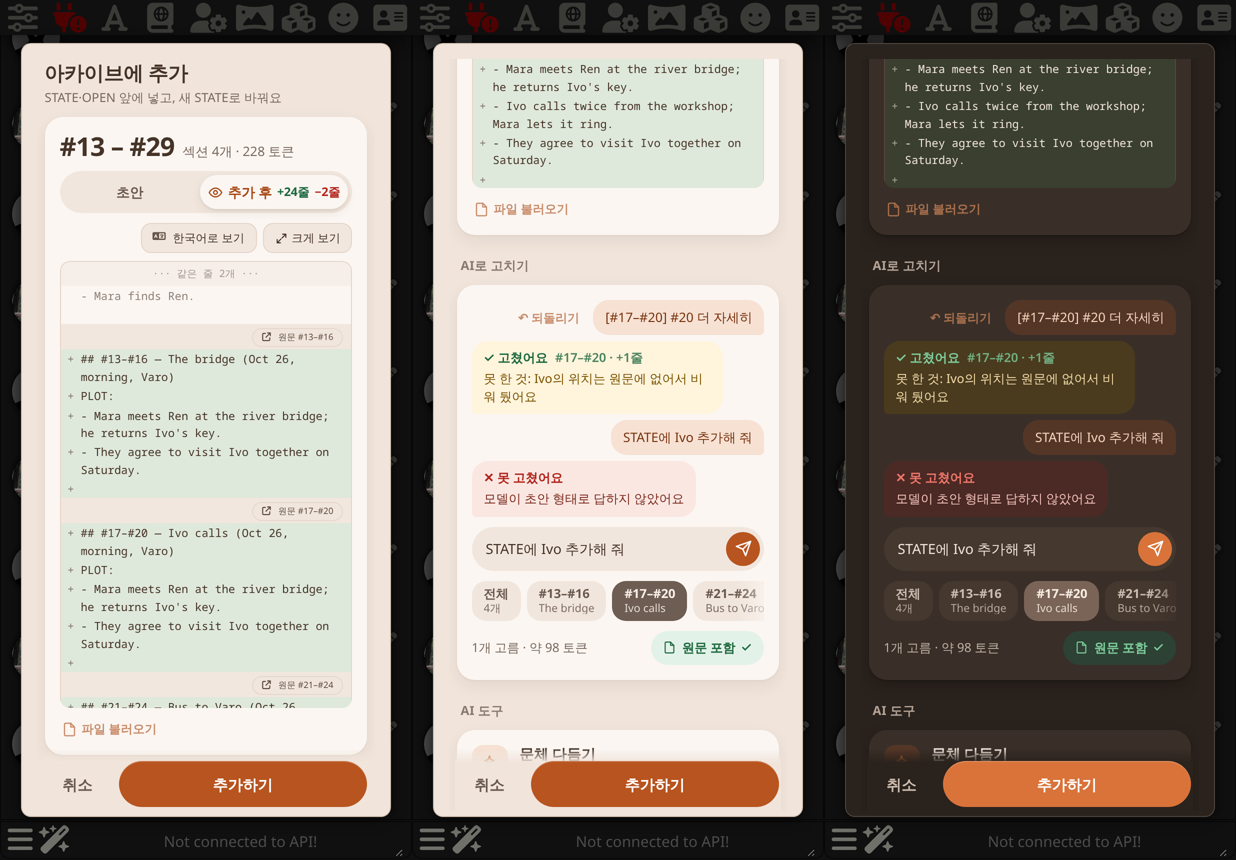
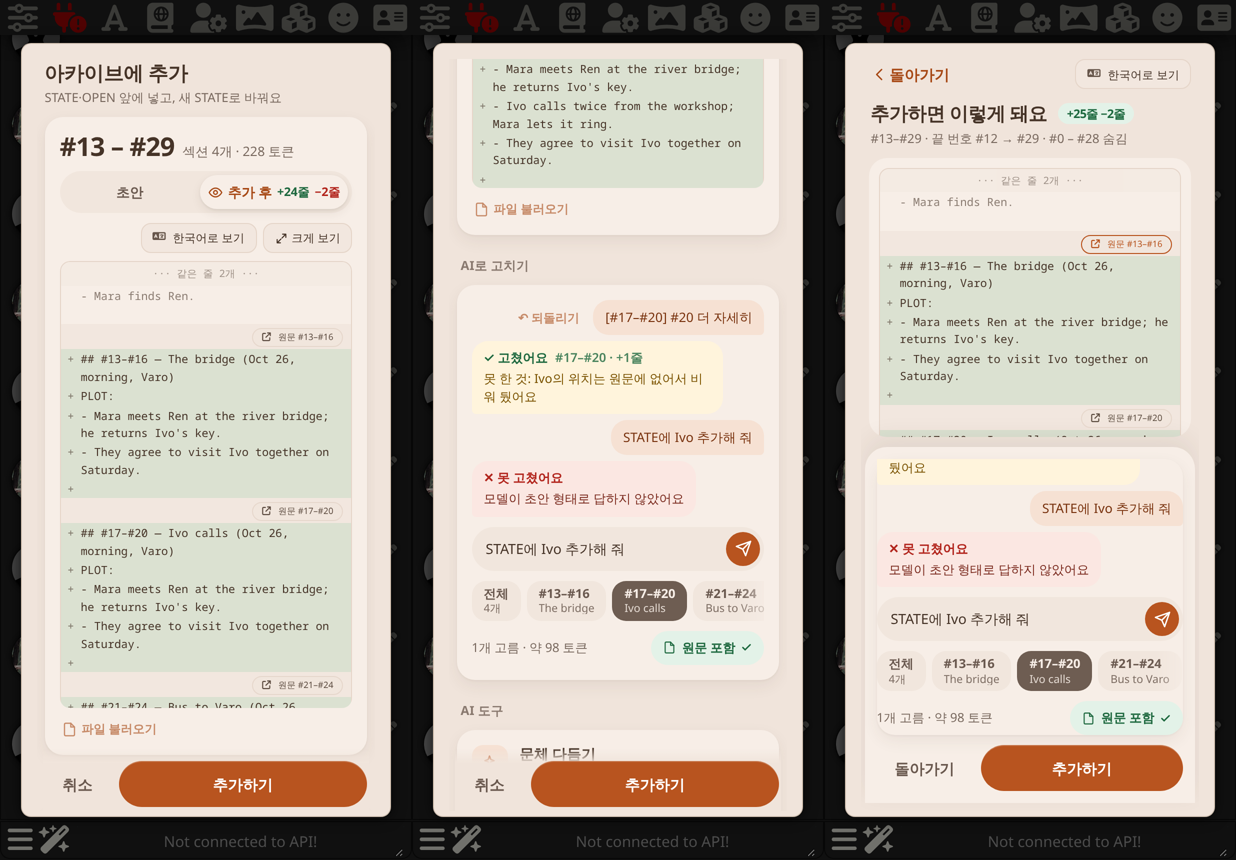
3.158.4: 아카이브에 추가: cards back in the palette's card colour (shadow, no outline kept)
Claude-Session: https://claude.ai/code/session_01TBUyc5NesEMBcPKHWzpL6W

Changed region(s): [[0.6764, 0.0302, 0.9838, 0.9674]]

diff --git a/style.css b/style.css
@@ -2443,12 +2443,10 @@ body.na_darkui .na_ap2 .na_append_ta { background: #2E2621 !important; border: 1
 .na_ap3_sect small { font-size: 11.5px; font-weight: 500; letter-spacing: 0; }
 .na_ap3_sect small:empty { display: none; }
 .na_ap3_part > .na_v2_card { margin-top: 10px; }
-/* cards as the mockup: a lighter paper than the window, no outline, a soft two-layer shadow (dark: the palette's card) */
-body:not(.na_darkui) .na_ap3 .na_v2_card { background: #FBF6F2; border-color: transparent; box-shadow: 0 1px 2px rgba(70, 52, 40, 0.05), 0 6px 16px rgba(70, 52, 40, 0.07); }
+/* cards in the palette's colour (--na-card), no outline, a soft two-layer shadow */
+body:not(.na_darkui) .na_ap3 .na_v2_card { border-color: transparent; box-shadow: 0 1px 2px rgba(70, 52, 40, 0.05), 0 6px 16px rgba(70, 52, 40, 0.07); }
 body.na_darkui .na_ap3 .na_v2_card { border-color: transparent; box-shadow: 0 1px 2px rgba(0, 0, 0, 0.2), 0 6px 16px rgba(0, 0, 0, 0.22); }
-body:not(.na_darkui) .na_ap3 .na_ap3_seg button.on { background: #FBF6F2; }
 .na_ap3 .na_ap3_file.na_append_file_btn { background: transparent; border: 0; padding: 2px; }
-body:not(.na_darkui) .na_ap3 .na_ap3_fbody, body:not(.na_darkui) .na_ap3 .na_ap3_fdock { background: #FBF6F2; }
 /* the draft card */
 .na_ap3_sum { display: flex; flex-direction: column; gap: 10px; padding: 14px; margin-top: 14px; }
 .na_ap3_head { display: flex; align-items: baseline; flex-wrap: wrap; gap: 4px 8px; }

diff --git a/src/core.js b/src/core.js
@@ -12,7 +12,7 @@ import { parseSections } from './sections.js';
 
 export const MODULE = 'narrative_archive';
 export const PROMPT_KEY = 'narrative_archive_injection';
-export const VERSION = '3.158.3';
+export const VERSION = '3.158.4';
 export const SNAPSHOT_MAX = 5;
 export const SNAPSHOT_MAX_CHARS = 2_000_000;
 
